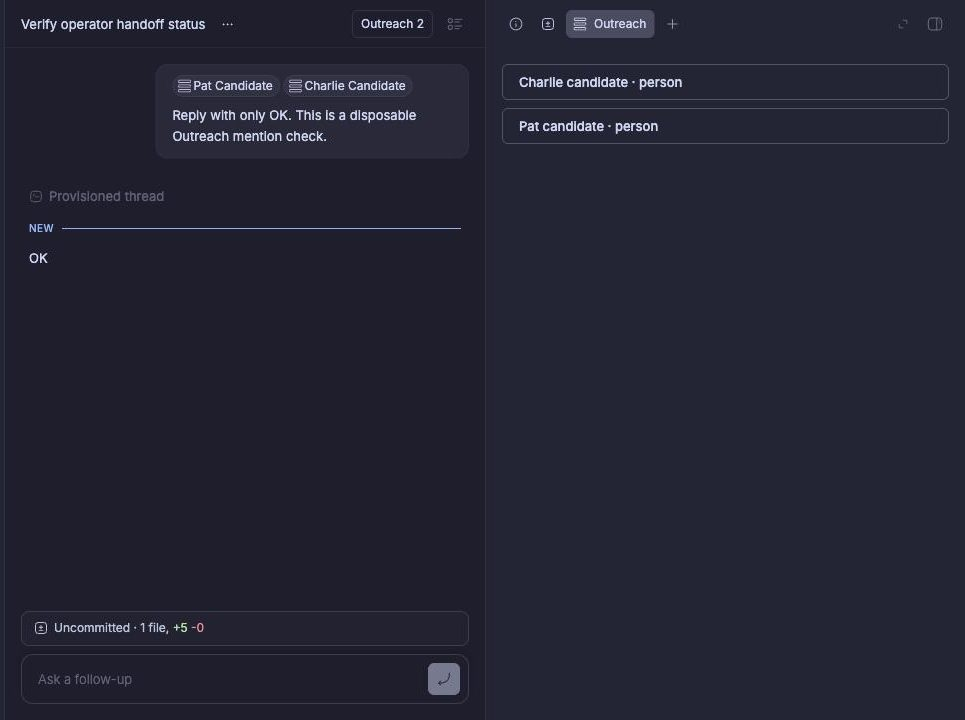
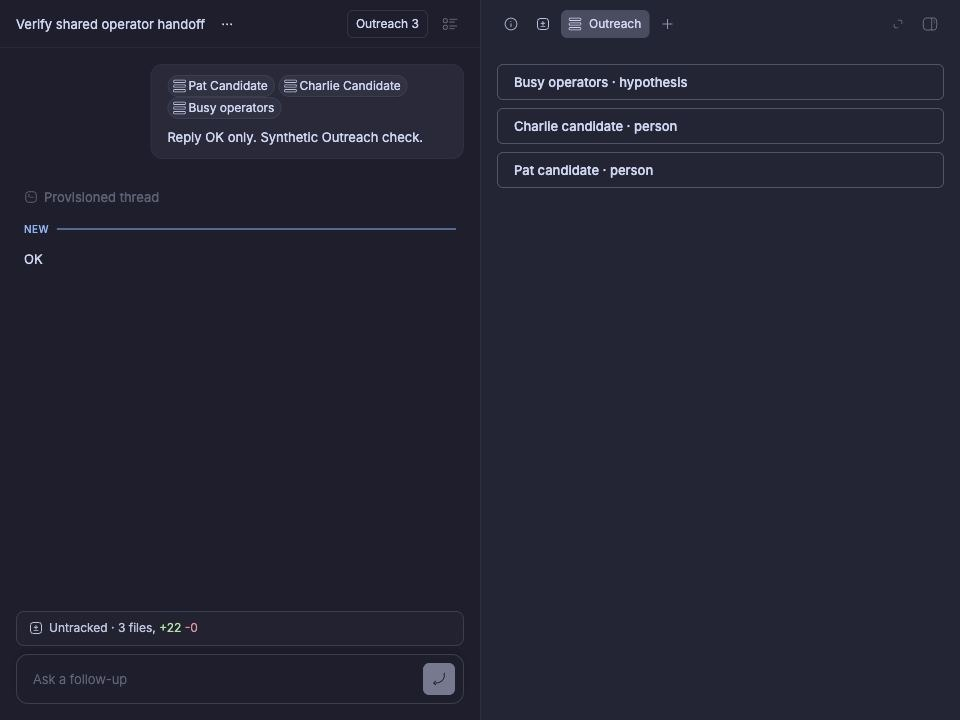
Record repaired Outreach Discuss flow and follow-up and picker replay

diff --git a/docs/attachments/tracker-outreach-panel-for-project-vaults/index.md b/docs/attachments/tracker-outreach-panel-for-project-vaults/index.md
@@ -26,3 +26,11 @@ Tested `bb-plugins` revision `c4e1c1b23ed27053d455a158cf987435a741ead6`. Followe
 3. Seed different hypotheses to establish exclusion, and a contacted record whose follow-up is already due to establish Queue's other source. Mark the latter handled, change its due date to a different due date, and require it to return without reload.
 
 The desktop instance disappeared toward the end of the drive and close retries returned stale generation. [[projects/mlegls-pi/issues/bb-desktop-browser-disappears-before-session-cleanup]]. Stopped the synthetic thread, removed the disposable project/repo, and restored the prior tracker deployment.
+
+## Review replay
+
+All eight claims now hold. On `bb-plugins` `fb98bae`, with the built plugin running and the demo project present in the `outreach` RPC, Discuss 2 opened **Discuss 3 records** with Pat, Charlie and Busy operators. Sending a synthetic prompt produced three mention chips; the thread’s Outreach 3 menu listed two people and one hypothesis. [Replacement capture: sent message and return links](discuss.jpg). No change to the original hypothesis-only draft or person-to-thread navigation paths.
+
+Extended the disposable demo with a Solo hypothesis/candidate and a messaged Due Contact. Selecting Busy operators excluded Solo and retained Pat P1 then Charlie P3. Marking Due Contact handled reduced Queue 2 to Queue 1. Editing only `next_followup` from `2026-11-14` to `2026-11-15` restored Queue 2 and showed the new date without reloading. In the resulting thread composer, typed `~Pat`, waited for the matching candidate result, selected it and typed ` ~Busy`. The picker offered `busy-operators` labeled `hypothesis · active` for the same project. Search results took longer than the first snapshot to appear.
+
+`bb plugin build .` and `bunx tsc --noEmit` passed. Desktop cleanup across instance generations is tracked in [get-bb/bb#7534](https://github.com/get-bb/bb/issues/7534#issuecomment-7062553249).
